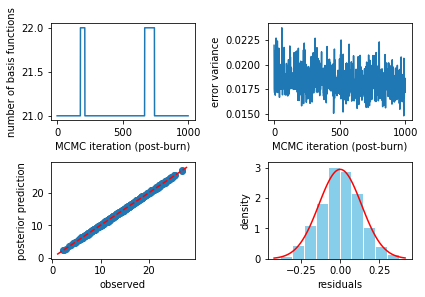
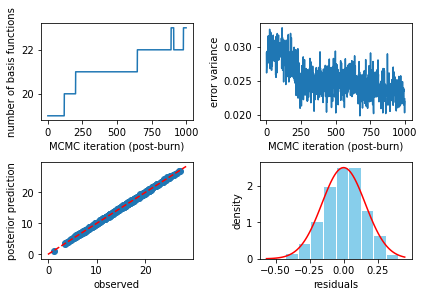
Update example

diff --git a/examples/ex1.md b/examples/ex1.md
@@ -34,7 +34,7 @@ mod = pb.bass(x, y)
 mod.plot()
 ```
 
-    BASS MCMC Complete. Time: 3.376908 seconds.
+    BASS MCMC Complete. Time: 3.236959 seconds.
 
 
 
@@ -47,8 +47,8 @@ The following gives the posterior predictions of the BMARS mean model.
 
 
 ```python
-pred = mod.predict(xx)
-plt.scatter(ftest, pred.mean(axis=0)) # posterior mean prediction vs noisless test outputs
+fpred = mod.predict(xx)
+plt.scatter(ftest, fpred.mean(axis=0)) # posterior mean prediction vs noisless test outputs
 plt.show()
 ```
 
@@ -62,9 +62,9 @@ To get full prediction uncertainty, use the `nugget=True` option.  For instance,
 
 
 ```python
-pred_1obs = mod.predict(xx[0], nugget=True)
-plt.hist(pred_1obs)
-plt.axvline(ytest[0], color='red')
+ypred = mod.predict(xx, nugget=True)
+plt.hist(ypred[:, 40])
+plt.axvline(ytest[40], color='red')
 plt.show()
 ```
 
@@ -78,14 +78,13 @@ We can calculate the empirical coverage of the uncertainty from our test set pre
 
 
 ```python
-pred_obs = mod.predict(xx, nugget=True)
-quantiles = np.quantile(pred_obs, [0.025, .975], axis=0)
+quantiles = np.quantile(ypred, [0.025, .975], axis=0)
 np.mean((quantiles[0] < ytest) * (quantiles[1] > ytest))
 ```
 
 
 
 
-    0.941
+    0.947
 
 
